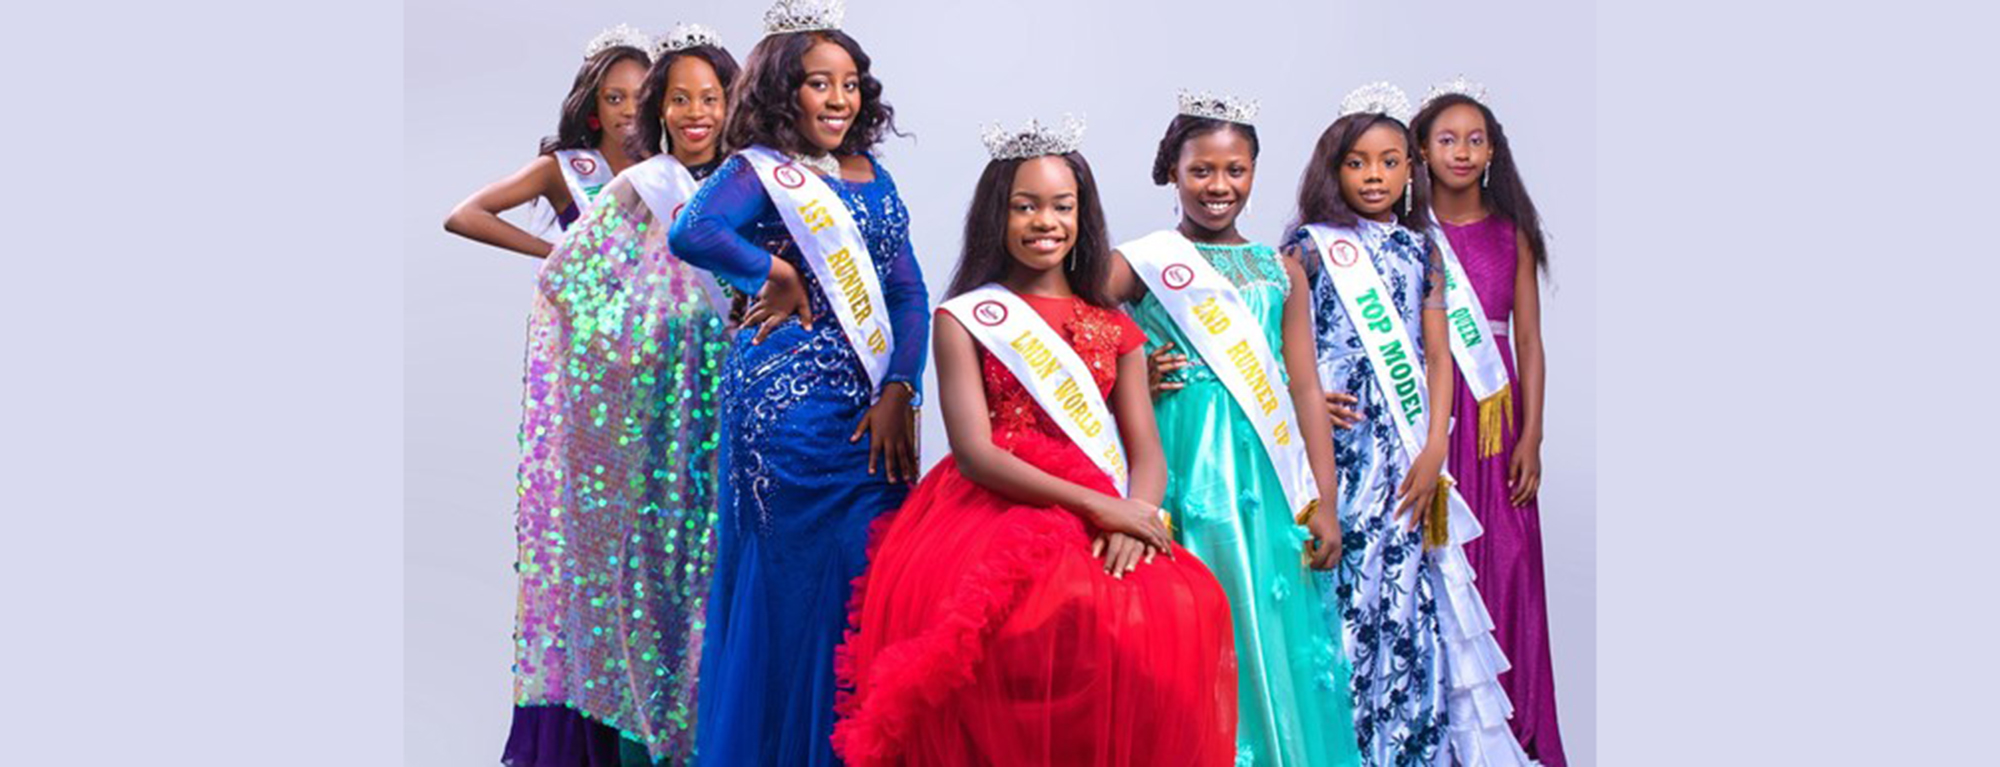
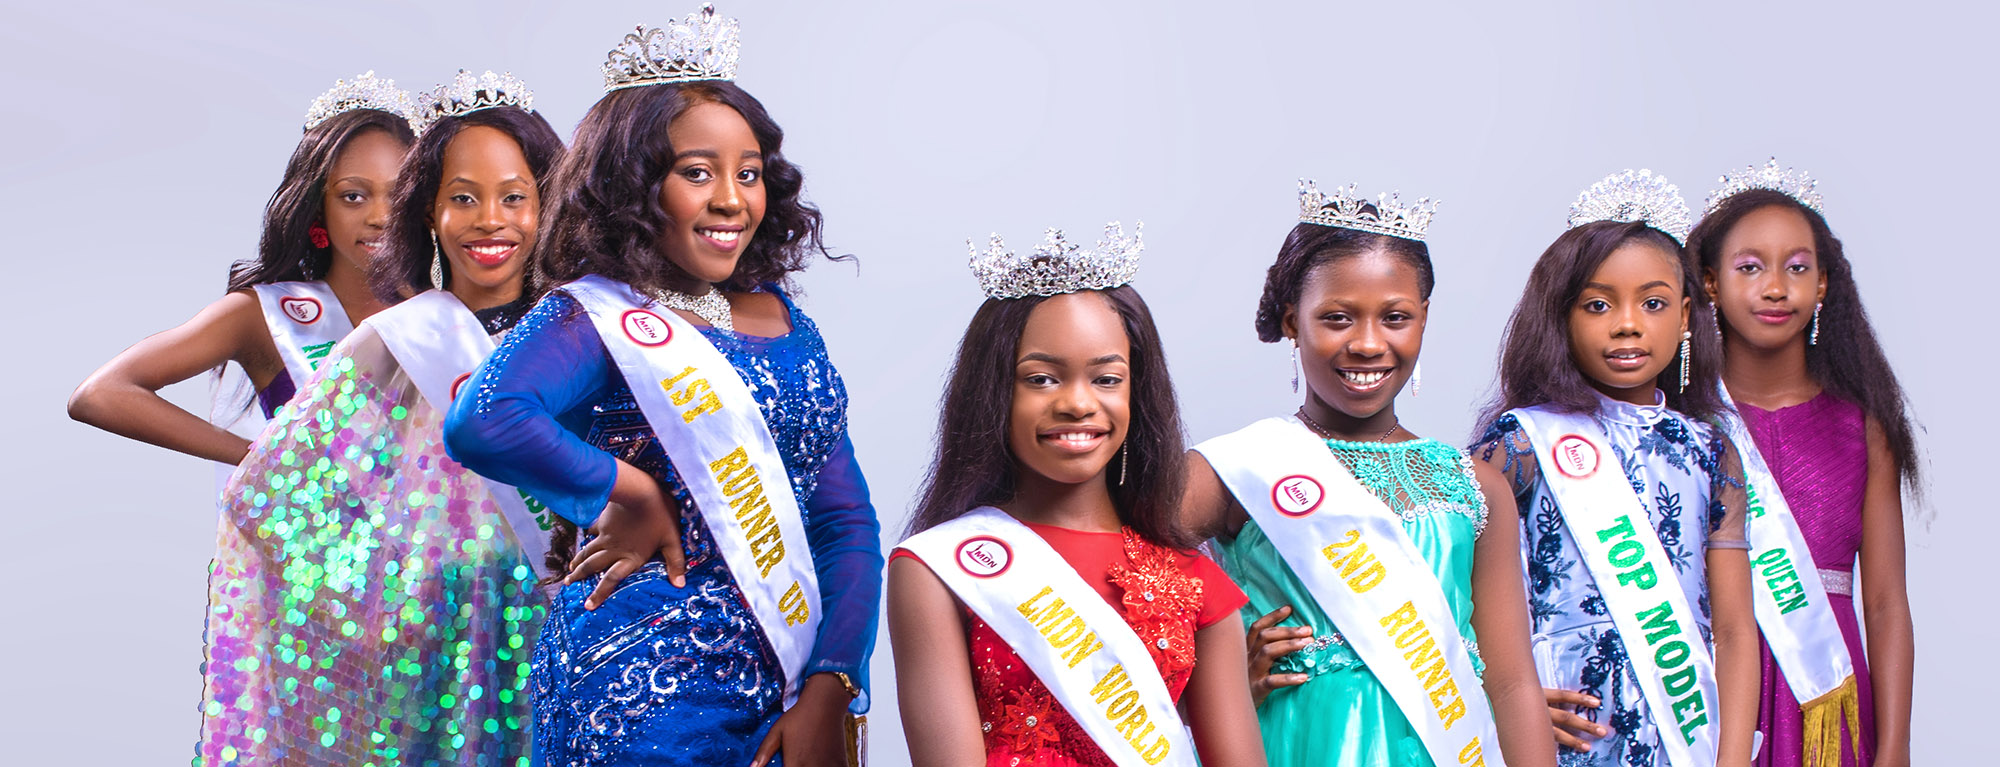
updated images

diff --git a/resources/views/home.blade.php b/resources/views/home.blade.php
@@ -164,7 +164,7 @@
                 <div class="row">
                     <div class="col-md-12 col-lg-6">
                         <div class="ttm_single_image_wrapper mt_20 res-991-mt-0">
-                            <img src="{{ asset('main/lmdn_home1.jpg') }}" alt="image" class="img-fluid">
+                            <img src="{{ asset('main/home2.jpg') }}" alt="image" class="img-fluid">
                         </div>
                     </div>
                     <div class="col-md-12 col-lg-6">
@@ -322,8 +322,8 @@
                             </div>
                             <div class="featured-content">
                                 <div class="featured-title">
-                                    <h3><a href="#"> LMDN Crowned Winner</a></h3>
-                                    <h5><a href="#"> </a></h5>
+                                    <h3><a href="#"> LMDN Crowned Queen (2020/2021) </a></h3>
+                                    <h5><a href="#"> Queen Biobele LongJohn </a></h5>
                                 </div>
                             </div>
                         </div>
